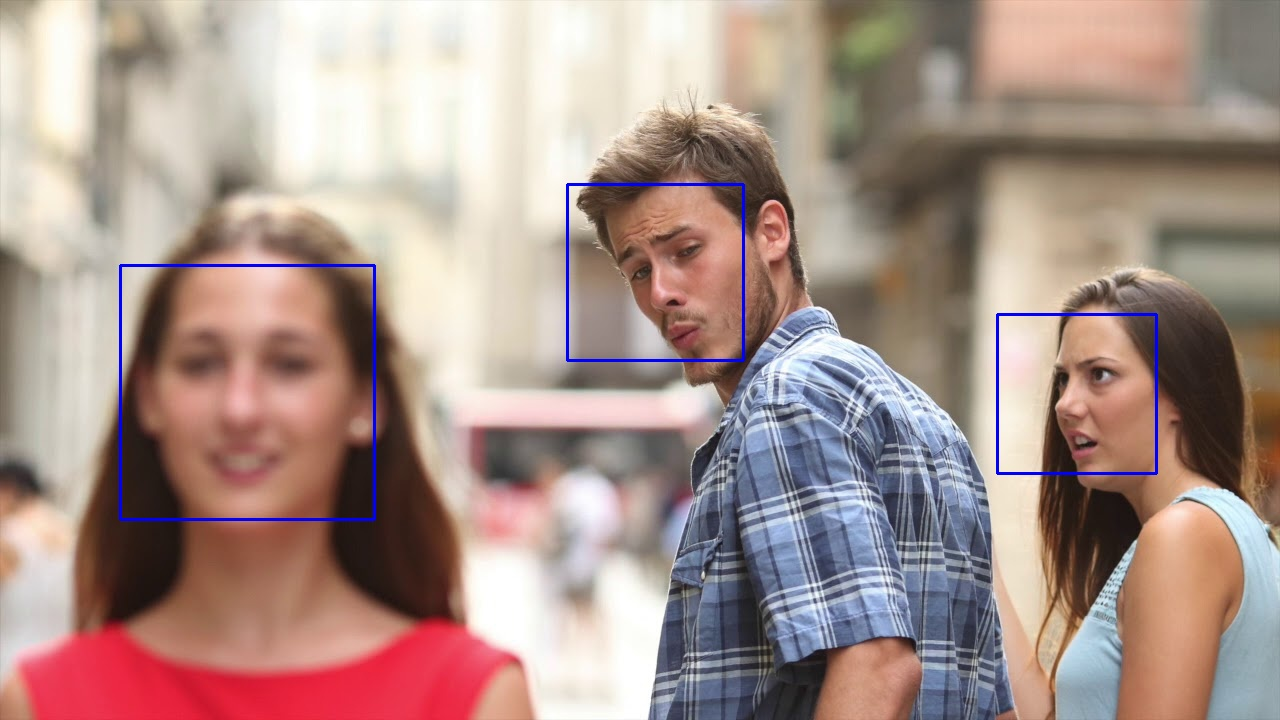
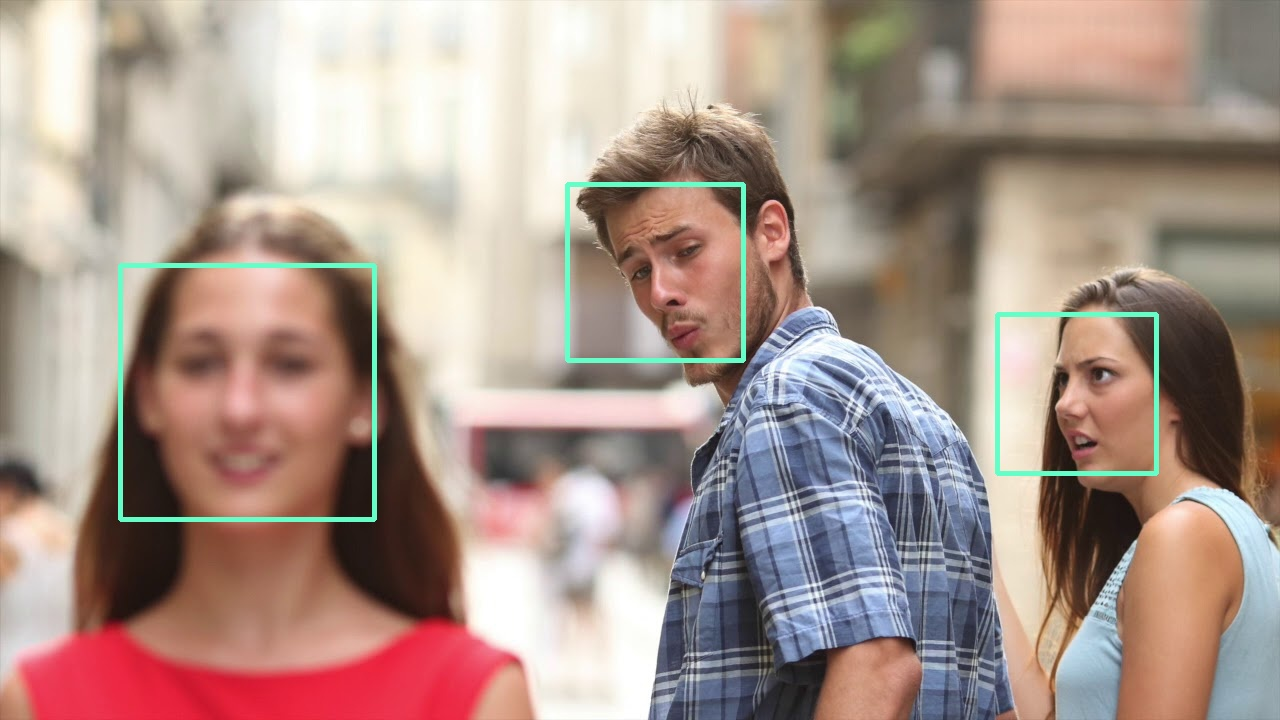
Final

Changed region(s): [[0.4375, 0.2444, 0.5938, 0.5194], [0.0938, 0.3667, 0.3125, 0.7333], [0.75, 0.4278, 0.9062, 0.6722]]

diff --git a/third.py b/third.py
@@ -7,11 +7,11 @@ from typing import NoReturn
 data_dir: str = 'photos/third/'
 
 
-def equ_hist(image_name: str) -> NoReturn:
+def histogram(image_name: str) -> NoReturn:
     image: np.array = cv2.imread(os.path.join(data_dir, image_name))
     image_yuv: np.array = cv2.cvtColor(image, cv2.COLOR_BGR2YUV)
     image_yuv[:, :, 0] = cv2.equalizeHist(image_yuv[:, :, 0])
-    modifyed_image: str = f"equ_hist_{image_name}"
+    modifyed_image: str = f"histogram_{image_name}"
 
     cv2.imwrite(modifyed_image,
                 cv2.cvtColor(image_yuv, cv2.COLOR_YUV2BGR))
@@ -29,7 +29,7 @@ def clahe(image_name: str) -> NoReturn:
                 cv2.cvtColor(image_yuv, cv2.COLOR_YUV2BGR))
 
 
-def gaussian_blur(image_name: str) -> NoReturn:
+def blur(image_name: str) -> NoReturn:
     image: np.array = cv2.imread(os.path.join(data_dir, image_name))
     modifyed_image: str = f"gaussian_blur_{image_name}"
 
@@ -37,21 +37,23 @@ def gaussian_blur(image_name: str) -> NoReturn:
                 cv2.GaussianBlur(image, (21, 21), sigmaX=0))
 
 
-def sobel_x(image_name: str) -> NoReturn:
-    image: np.array = cv2.imread(os.path.join(data_dir, image_name), 0)
-    modifyed_image: str = f"sobel_x_{image_name}"
+def _sobel_deriv_x(image_name: str, image: np.array) -> NoReturn:
+    modifyed_image: str = f"obel_deriv_x_{image_name}"
 
     cv2.imwrite(modifyed_image,
                 cv2.Sobel(image, cv2.CV_64F, 1, 0, ksize=5))
 
 
-def sobel_y(image_name: str) -> NoReturn:
-    image: np.array = cv2.imread(os.path.join(data_dir, image_name), 0)
-    modifyed_image: str = f"sobel_y_{image_name}"
+def _sobel_deriv_y(image_name: str, image: np.array) -> NoReturn:
+    modifyed_image: str = f"obel_deriv_y_{image_name}"
 
     cv2.imwrite(modifyed_image,
                 cv2.Sobel(image, cv2.CV_64F, 0, 1, ksize=5))
 
+def sobel(image_name: str) -> NoReturn:
+    image: np.array = cv2.imread(os.path.join(data_dir, image_name), 0)
+    _sobel_deriv_x(image_name, image)
+    _sobel_deriv_y(image_name, image)
 
 def laplas(image_name: str) -> NoReturn:
     image: np.array = cv2.imread(os.path.join(data_dir, image_name), 0)
@@ -103,8 +105,8 @@ def pyramid_blending(first_image_name: str, second_image_name: str) -> NoReturn:
     direct_blending: np.array = np.hstack((first_image[:, :int(merged_pyr[15].shape[1] / 2)],
                                            second_image[:, int(merged_pyr[15].shape[1] / 2):]))
 
-    cv2.imwrite('results/third/pyramid_blending.jpg', blending)
-    cv2.imwrite('results/third/direct_blending.jpg', direct_blending)
+    cv2.imwrite('pyramid_blending.jpg', blending)
+    cv2.imwrite('direct_blending.jpg', direct_blending)
 
 
 def alpha_blending(foreground_image: str, background_image: str, alpha_mask_image: str) -> NoReturn:
@@ -115,7 +117,7 @@ def alpha_blending(foreground_image: str, background_image: str, alpha_mask_imag
     foreground = cv2.multiply(alpha / 255, foreground)
     background = cv2.multiply(1.0 - alpha / 255, background)
 
-    cv2.imwrite("results/third/alpha_blending.jpg",
+    cv2.imwrite("alpha_blending.jpg",
                 cv2.add(foreground, background))
 
 
@@ -123,17 +125,10 @@ if __name__ == "__main__":
     images: list = os.listdir(data_dir)
 
     for i in range(len(images) - 2):
-        equ_hist(images[i])
-        equ_hist(images[i])
-
+        histogram(images[i])
         clahe(images[i])
-        clahe(images[i])
-
-        gaussian_blur(images[i])
-        gaussian_blur(images[i])
-
-        sobel_x(images[i])
-        sobel_y(images[i])
+        blur(images[i])
+        sobel(images[i])
         laplas(images[i])
 
         pyramid_blending(images[i], images[i + 1])

diff --git a/second.py b/second.py
@@ -23,7 +23,7 @@ def _modify_brightness(pixels: np.array, delta: float) -> np.array:
     return pixels
 
 
-def modify_saturation(image_name: str, ratio: float = 1.2) -> NoReturn:
+def saturation(image_name: str, ratio: float = 1.2) -> NoReturn:
     bgr_image: np.array = cv2.imread(os.path.join(data_dir, image_name), 1)
     lab_image: np.array = cv2.cvtColor(bgr_image, cv2.COLOR_BGR2LAB)
 
@@ -40,7 +40,7 @@ def modify_saturation(image_name: str, ratio: float = 1.2) -> NoReturn:
     cv2.imwrite(modifyed_image, res)
 
 
-def modify_brightness(image_name: str, delta: float = 30) -> NoReturn:
+def brightness(image_name: str, delta: float = 30) -> NoReturn:
     image: np.array = cv2.imread(os.path.join(data_dir, image_name), 1)
     lab_image: np.array = cv2.cvtColor(image, cv2.COLOR_BGR2LAB)
 
@@ -59,5 +59,5 @@ def modify_brightness(image_name: str, delta: float = 30) -> NoReturn:
 
 if __name__ == "__main__":
     for filename in os.listdir(data_dir):
-        modify_saturation(filename)
-        modify_brightness(filename)
+        saturation(filename)
+        brightness(filename)

diff --git a/first.py b/first.py
@@ -6,7 +6,7 @@ import os
 from matplotlib import pyplot as plt
 
 
-def get_avg(img: object, left_bound: int, right_bound: int, bottom_bound: int, top_bound: int):
+def get_avg(img: object, left_bound: int, right_bound: int, bottom_bound: int, top_bound: int) -> int:
     gray_image: np.array = cv2.cvtColor(img, cv2.COLOR_BGR2GRAY)
     cropped_gray_image: np.array = gray_image[bottom_bound:top_bound, left_bound:right_bound]
     height, width = cropped_gray_image.shape

diff --git a/fourth.py b/fourth.py
@@ -15,8 +15,8 @@ def haar(image_name: str) -> NoReturn:
         cv2.rectangle(image,
                       (face[0], face[1]),
                       (face[0] + face[2], face[1] + face[3]),
-                      (255, 0, 0),
-                      2)
+                      (200, 255, 100),
+                      3)
 
     cv2.imwrite(f"haar_{image_name}", image)
 
